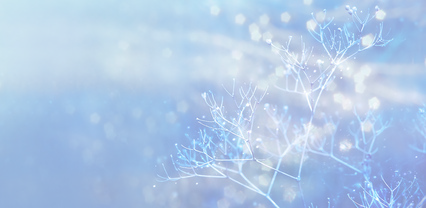
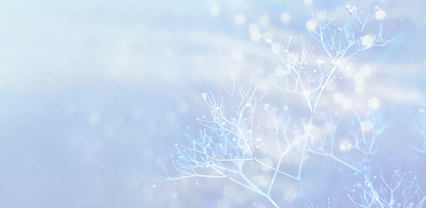
修改

diff --git a/Before-End/Picture-Community-Before/js/pictureShow.js b/Before-End/Picture-Community-Before/js/pictureShow.js
@@ -22,7 +22,7 @@ var token;
 token=localStorage.Token;//获取token
 
 //localStorage.setItem('picId','2');
-localStorage.setItem('userId','5');
+//localStorage.setItem('userId','5');
 
 if(localStorage.getItem("userId")!=null){//判断用户是否登录
   is_login=true;
@@ -69,7 +69,10 @@ $.ajax(settings).done(function (response) {
    var tags=response.picTags;//图片标签
    if(tags.length!=0){
       tags.forEach( function(item){//显示图片标签
-        $(".tag").append(item.tag_name+" ");
+        if(item.tag_name!="1"&&item.tag_name!="2"){
+          $(".tag").append(item.tag_name+" ");
+        }
+        
       });
     }
    else{

diff --git a/Before-End/Picture-Community-Before/css/pictureShow.css b/Before-End/Picture-Community-Before/css/pictureShow.css
@@ -209,7 +209,9 @@ input{
 }
 
 .body{
-	background-color: #fefefe;
+	/*background-color: #fefefe;*/
+	background-image: url("../img/body_bg.png");
+	background-size: cover;
 
 }
 
@@ -222,7 +224,7 @@ input{
 	width: 450px;
 	height:600px;
 	border:2px dashed #000;
-	border-radius: 90px 90px;
+	border-radius: 30px 30px;
 	float: left;
 	margin-left: 25px;
 	margin-top: 20px;
